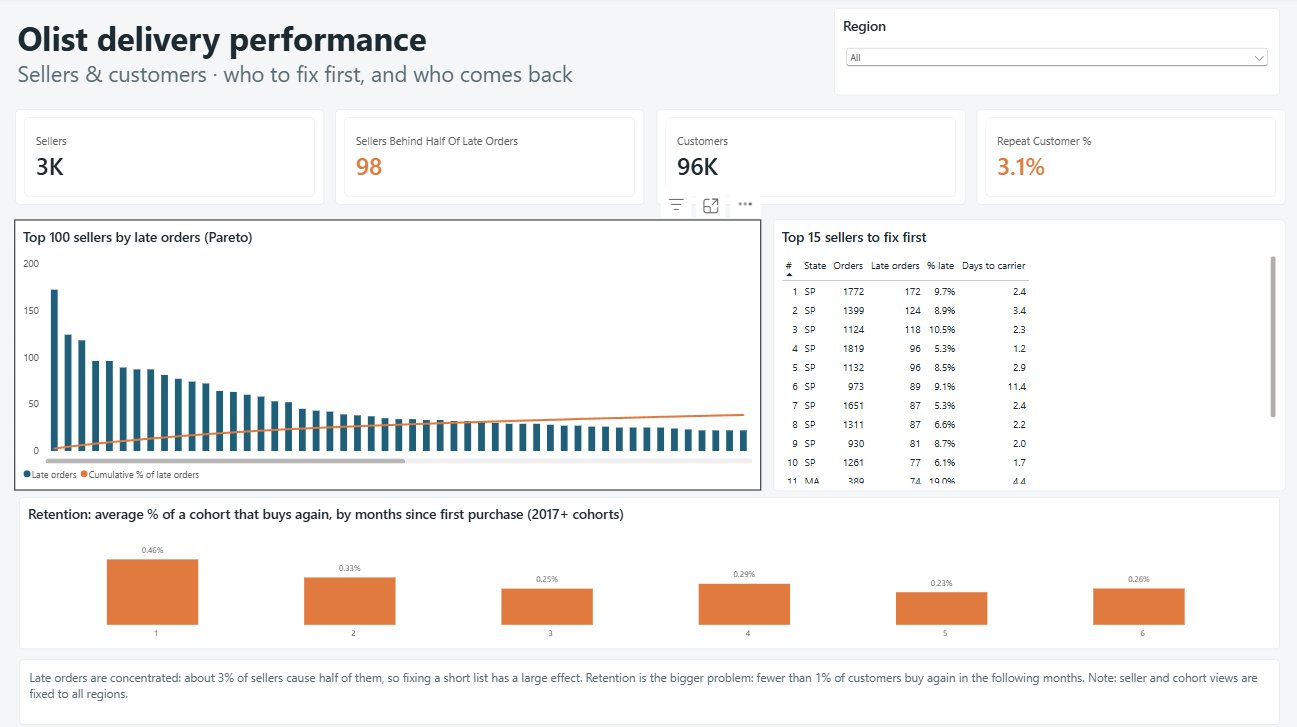
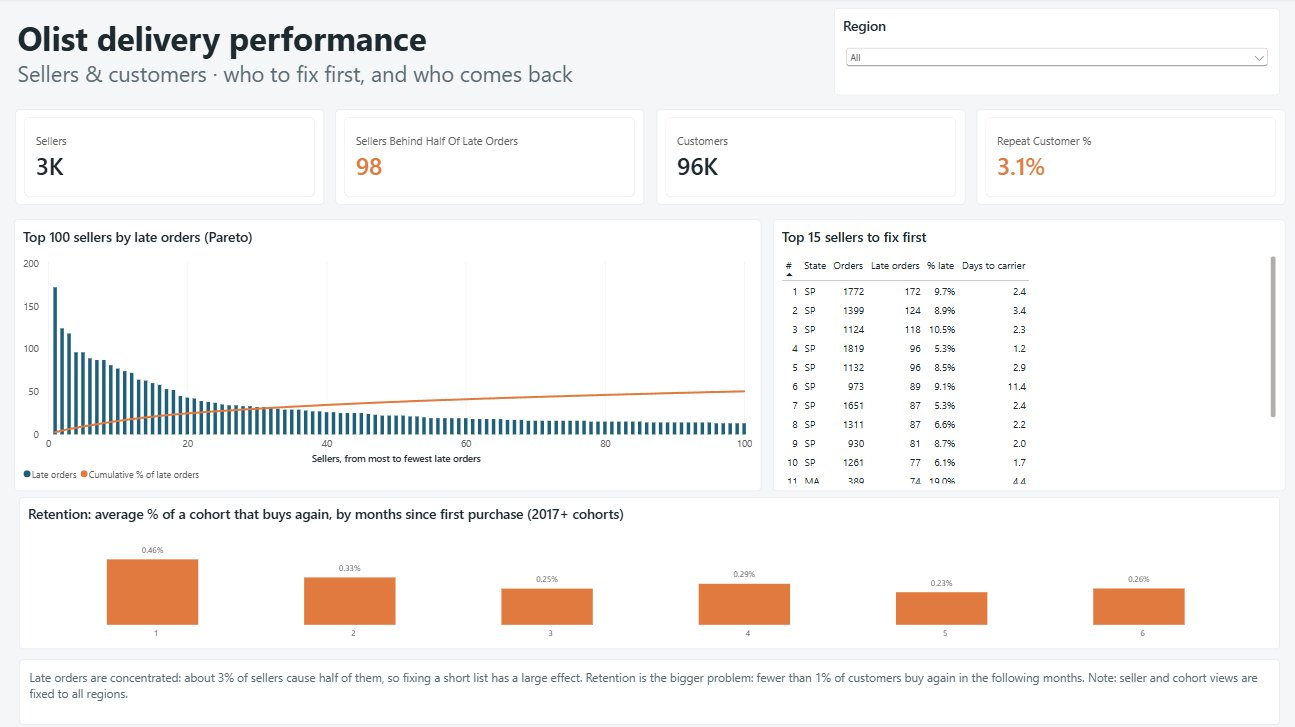
Update the sellers page screenshot with the full Pareto chart
Claude-Session: https://claude.ai/code/session_01SWSs8Pq2eHRrHgxWeCbVX8

diff --git a/projects/analytics.html b/projects/analytics.html
@@ -59,7 +59,7 @@
     <div class="shots">
       <figure><a href="img/olist-overview.jpg"><img src="img/olist-overview.jpg" width="1301" height="726" loading="lazy" alt="Overview page: orders, revenue, average delivery days, 6.8% late and 4.09 average review; monthly orders with the late rate; review score by delivery outcome." data-es-alt="Página de resumen: pedidos, ingresos, días medios de entrega, 6,8 % con retraso y valoración media de 4,09; pedidos mensuales con la tasa de retraso; valoración según el resultado de la entrega."></a><figcaption><span lang="en">Overview: how big the problem is, and what it does to reviews</span><span lang="es">Resumen: el tamaño del problema y su efecto en las valoraciones</span></figcaption></figure>
       <figure><a href="img/olist-deliveries.jpg"><img src="img/olist-deliveries.jpg" width="1297" height="728" loading="lazy" alt="Deliveries page: late rate by customer state, average days per delivery stage for late and on-time orders, and the worst routes." data-es-alt="Página de entregas: tasa de retraso por estado del cliente, días medios por etapa en pedidos tarde y a tiempo, y las peores rutas."></a><figcaption><span lang="en">Deliveries: where orders are late, and which stage loses the time</span><span lang="es">Entregas: dónde llegan tarde y en qué etapa se pierde el tiempo</span></figcaption></figure>
-      <figure><a href="img/olist-sellers.jpg"><img src="img/olist-sellers.jpg" width="1297" height="727" loading="lazy" alt="Sellers and customers page: Pareto of the top 100 sellers by late orders, the 15 sellers to fix first, and retention by months since first purchase." data-es-alt="Página de vendedores y clientes: Pareto de los 100 vendedores con más retrasos, los 15 a atacar primero y la retención por meses desde la primera compra."></a><figcaption><span lang="en">Sellers and customers: who to fix first, and who comes back</span><span lang="es">Vendedores y clientes: a quién atacar primero y quién vuelve</span></figcaption></figure>
+      <figure><a href="img/olist-sellers.jpg"><img src="img/olist-sellers.jpg" width="1295" height="727" loading="lazy" alt="Sellers and customers page: Pareto of the top 100 sellers by late orders, the 15 sellers to fix first, and retention by months since first purchase." data-es-alt="Página de vendedores y clientes: Pareto de los 100 vendedores con más retrasos, los 15 a atacar primero y la retención por meses desde la primera compra."></a><figcaption><span lang="en">Sellers and customers: who to fix first, and who comes back</span><span lang="es">Vendedores y clientes: a quién atacar primero y quién vuelve</span></figcaption></figure>
     </div>
   </section>
   <section><h2><span lang="en">Recommendations</span><span lang="es">Recomendaciones</span></h2>
